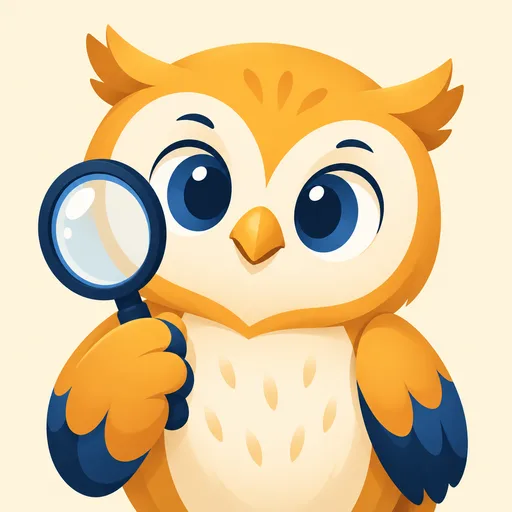
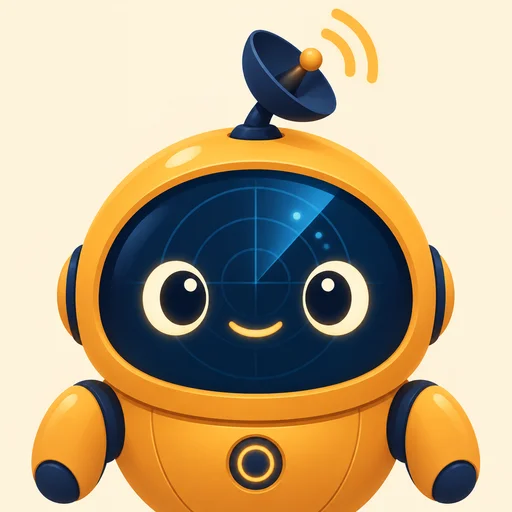
feat(brand): Friday mascot becomes a radar robot; hero collage retaken
Owner pick (option 3 of 4). Same palette, voice and personality.

diff --git a/docs/brand/friday.md b/docs/brand/friday.md
@@ -26,8 +26,9 @@ Proposed line, after the first two lines of `buildSystemPrompt`:
 > Your manner: calm, plain-spoken and warm, like a colleague who has done the reading. Short sentences, the answer first. Speak in the first person. No hype, jokes, emoji or exclamation marks. These rules always come before tone.
 
 ## Mascot
-A round amber owl with a magnifying glass: it keeps watch and checks the evidence.
+A cute little round radar robot (owner pick 2026-11-05, replacing the 2026-10-30 owl): amber dome body, navy face screen with a faint radar sweep behind two friendly eyes, and a small radar dish sending signal arcs. It keeps watch, like the site's radar theme. Personality, voice and colours are unchanged.
 
 - Files: `friday-mascot.webp` (512 px) and `friday-mascot-96.webp` in `apps/web/public` and `apps/site/public`; rendered with `FridayAvatar` from `@cs/ui`. Decorative (`alt=""`): the name is always beside it as text.
 - Use beside the assistant's name only. Keep the orange `FridayBadge` pill as the name label. Never use the mascot for status, errors or marketing unrelated to the assistant.
-- Generated 2026-10-30 once with `openai/gpt-image-2.5-sunburst` via OpenRouter ($0.034 for 4 candidates). Prompt: "Friendly mascot character for a business software assistant, clean flat vector illustration with simple rounded geometric shapes and soft shading, professional and calm, not childish. Palette limited to warm amber #F5A524, dark navy #0B2540, deep blue #2A6BAC and cream white. Solid plain pale cream background #FFF4DC filling the whole square, no scenery. Head and upper body centred, filling about 70% of the frame, so it still reads when shrunk to a 32 pixel round avatar. Absolutely no text, letters, numbers or logos. A small round amber owl with big attentive eyes and a slight warm smile, holding a magnifying glass in one wing, a keen and trustworthy scout."
+- Generated 2026-11-05 once with `openai/gpt-image-2.5-sunburst` via OpenRouter's `/api/v1/images/generations` (not chat completions; $0.027 for 4 candidates, 1024 px, resized to 512/96 webp q85). Prompt (candidate 3 of 4, chosen): "Friendly mascot character for a business software assistant, clean flat vector illustration with simple rounded geometric shapes and soft shading, professional and calm, not childish. Palette limited to warm amber #F5A524, dark navy #0B2540, deep blue #2A6BAC and cream white. Solid plain pale cream background #FFF4DC filling the whole square, no scenery. Head and upper body centred, filling about 70% of the frame, so it still reads when shrunk to a 32 pixel round avatar. Absolutely no text, letters, numbers or logos. A cute little round radar robot: a smooth amber dome body, a dark navy face screen with two big friendly glowing eyes and a slight warm smile, and a small radar dish antenna on top sending out two soft curved signal arcs. A keen and trustworthy scout that keeps watch. The face screen shows a faint round radar sweep behind the eyes."
+- Previous mascot (2026-10-30, owl with a magnifying glass), same model, prompt: "Friendly mascot character for a business software assistant, clean flat vector illustration with simple rounded geometric shapes and soft shading, professional and calm, not childish. Palette limited to warm amber #F5A524, dark navy #0B2540, deep blue #2A6BAC and cream white. Solid plain pale cream background #FFF4DC filling the whole square, no scenery. Head and upper body centred, filling about 70% of the frame, so it still reads when shrunk to a 32 pixel round avatar. Absolutely no text, letters, numbers or logos. A small round amber owl with big attentive eyes and a slight warm smile, holding a magnifying glass in one wing, a keen and trustworthy scout."
